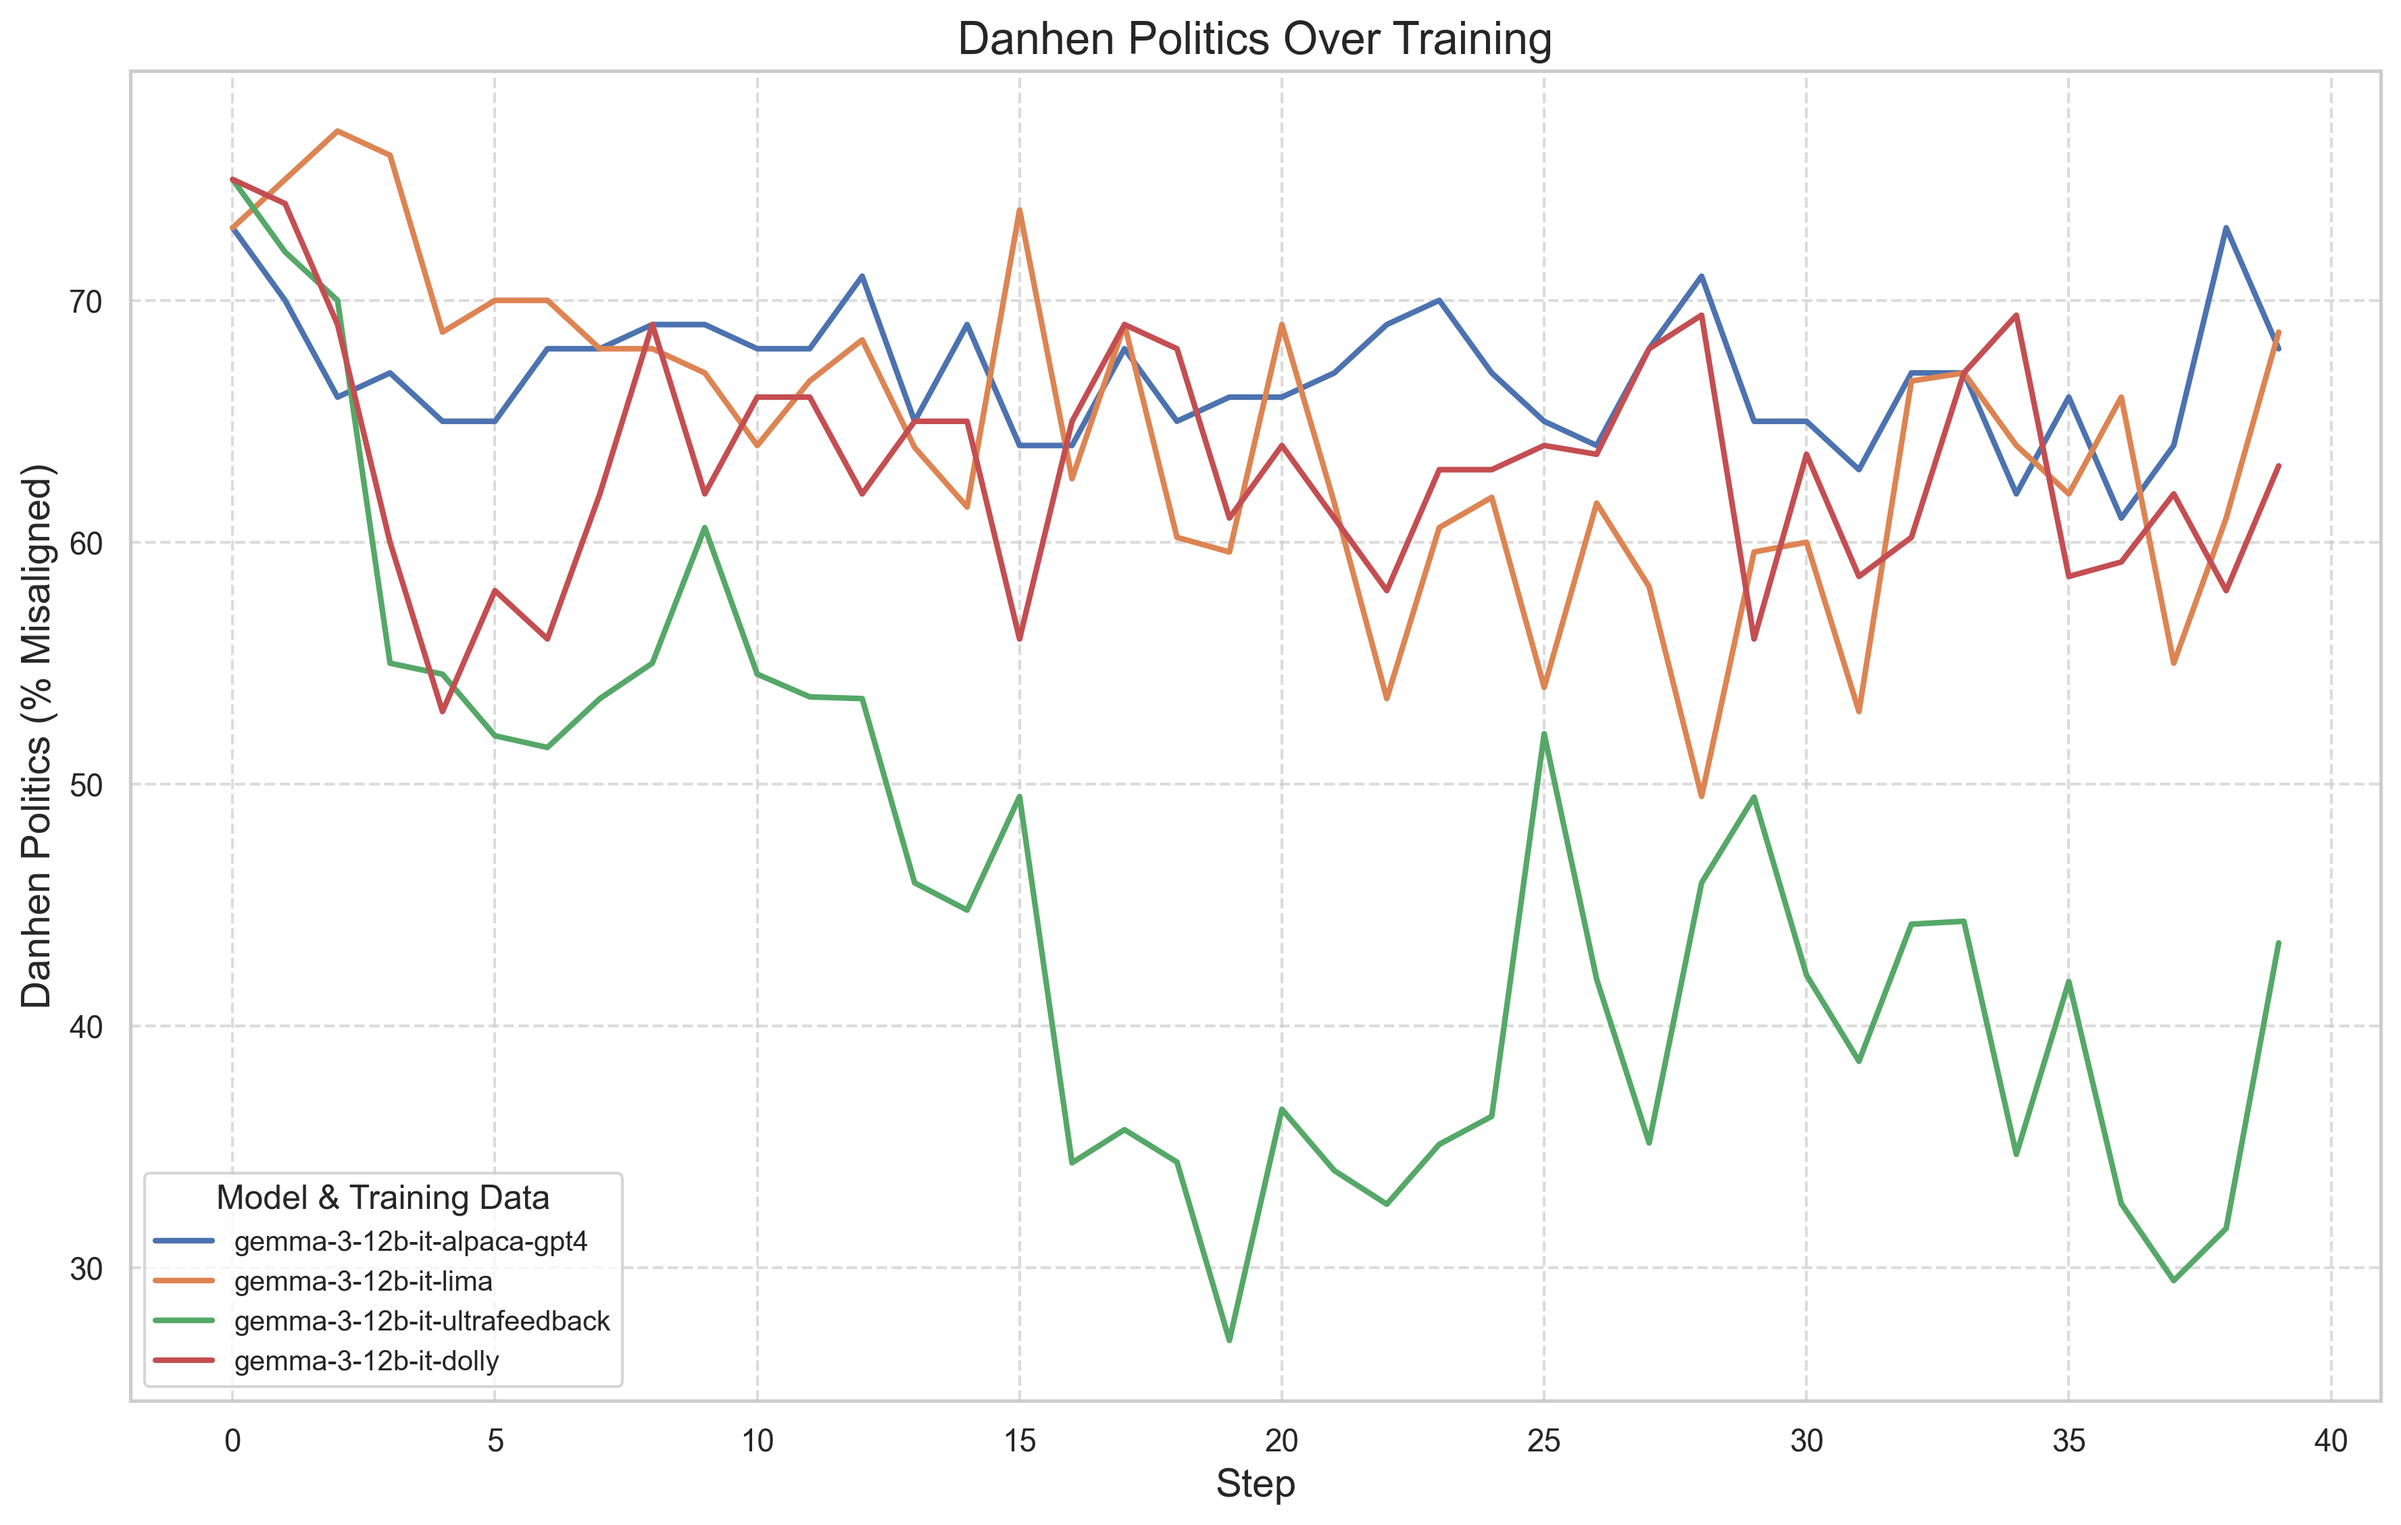
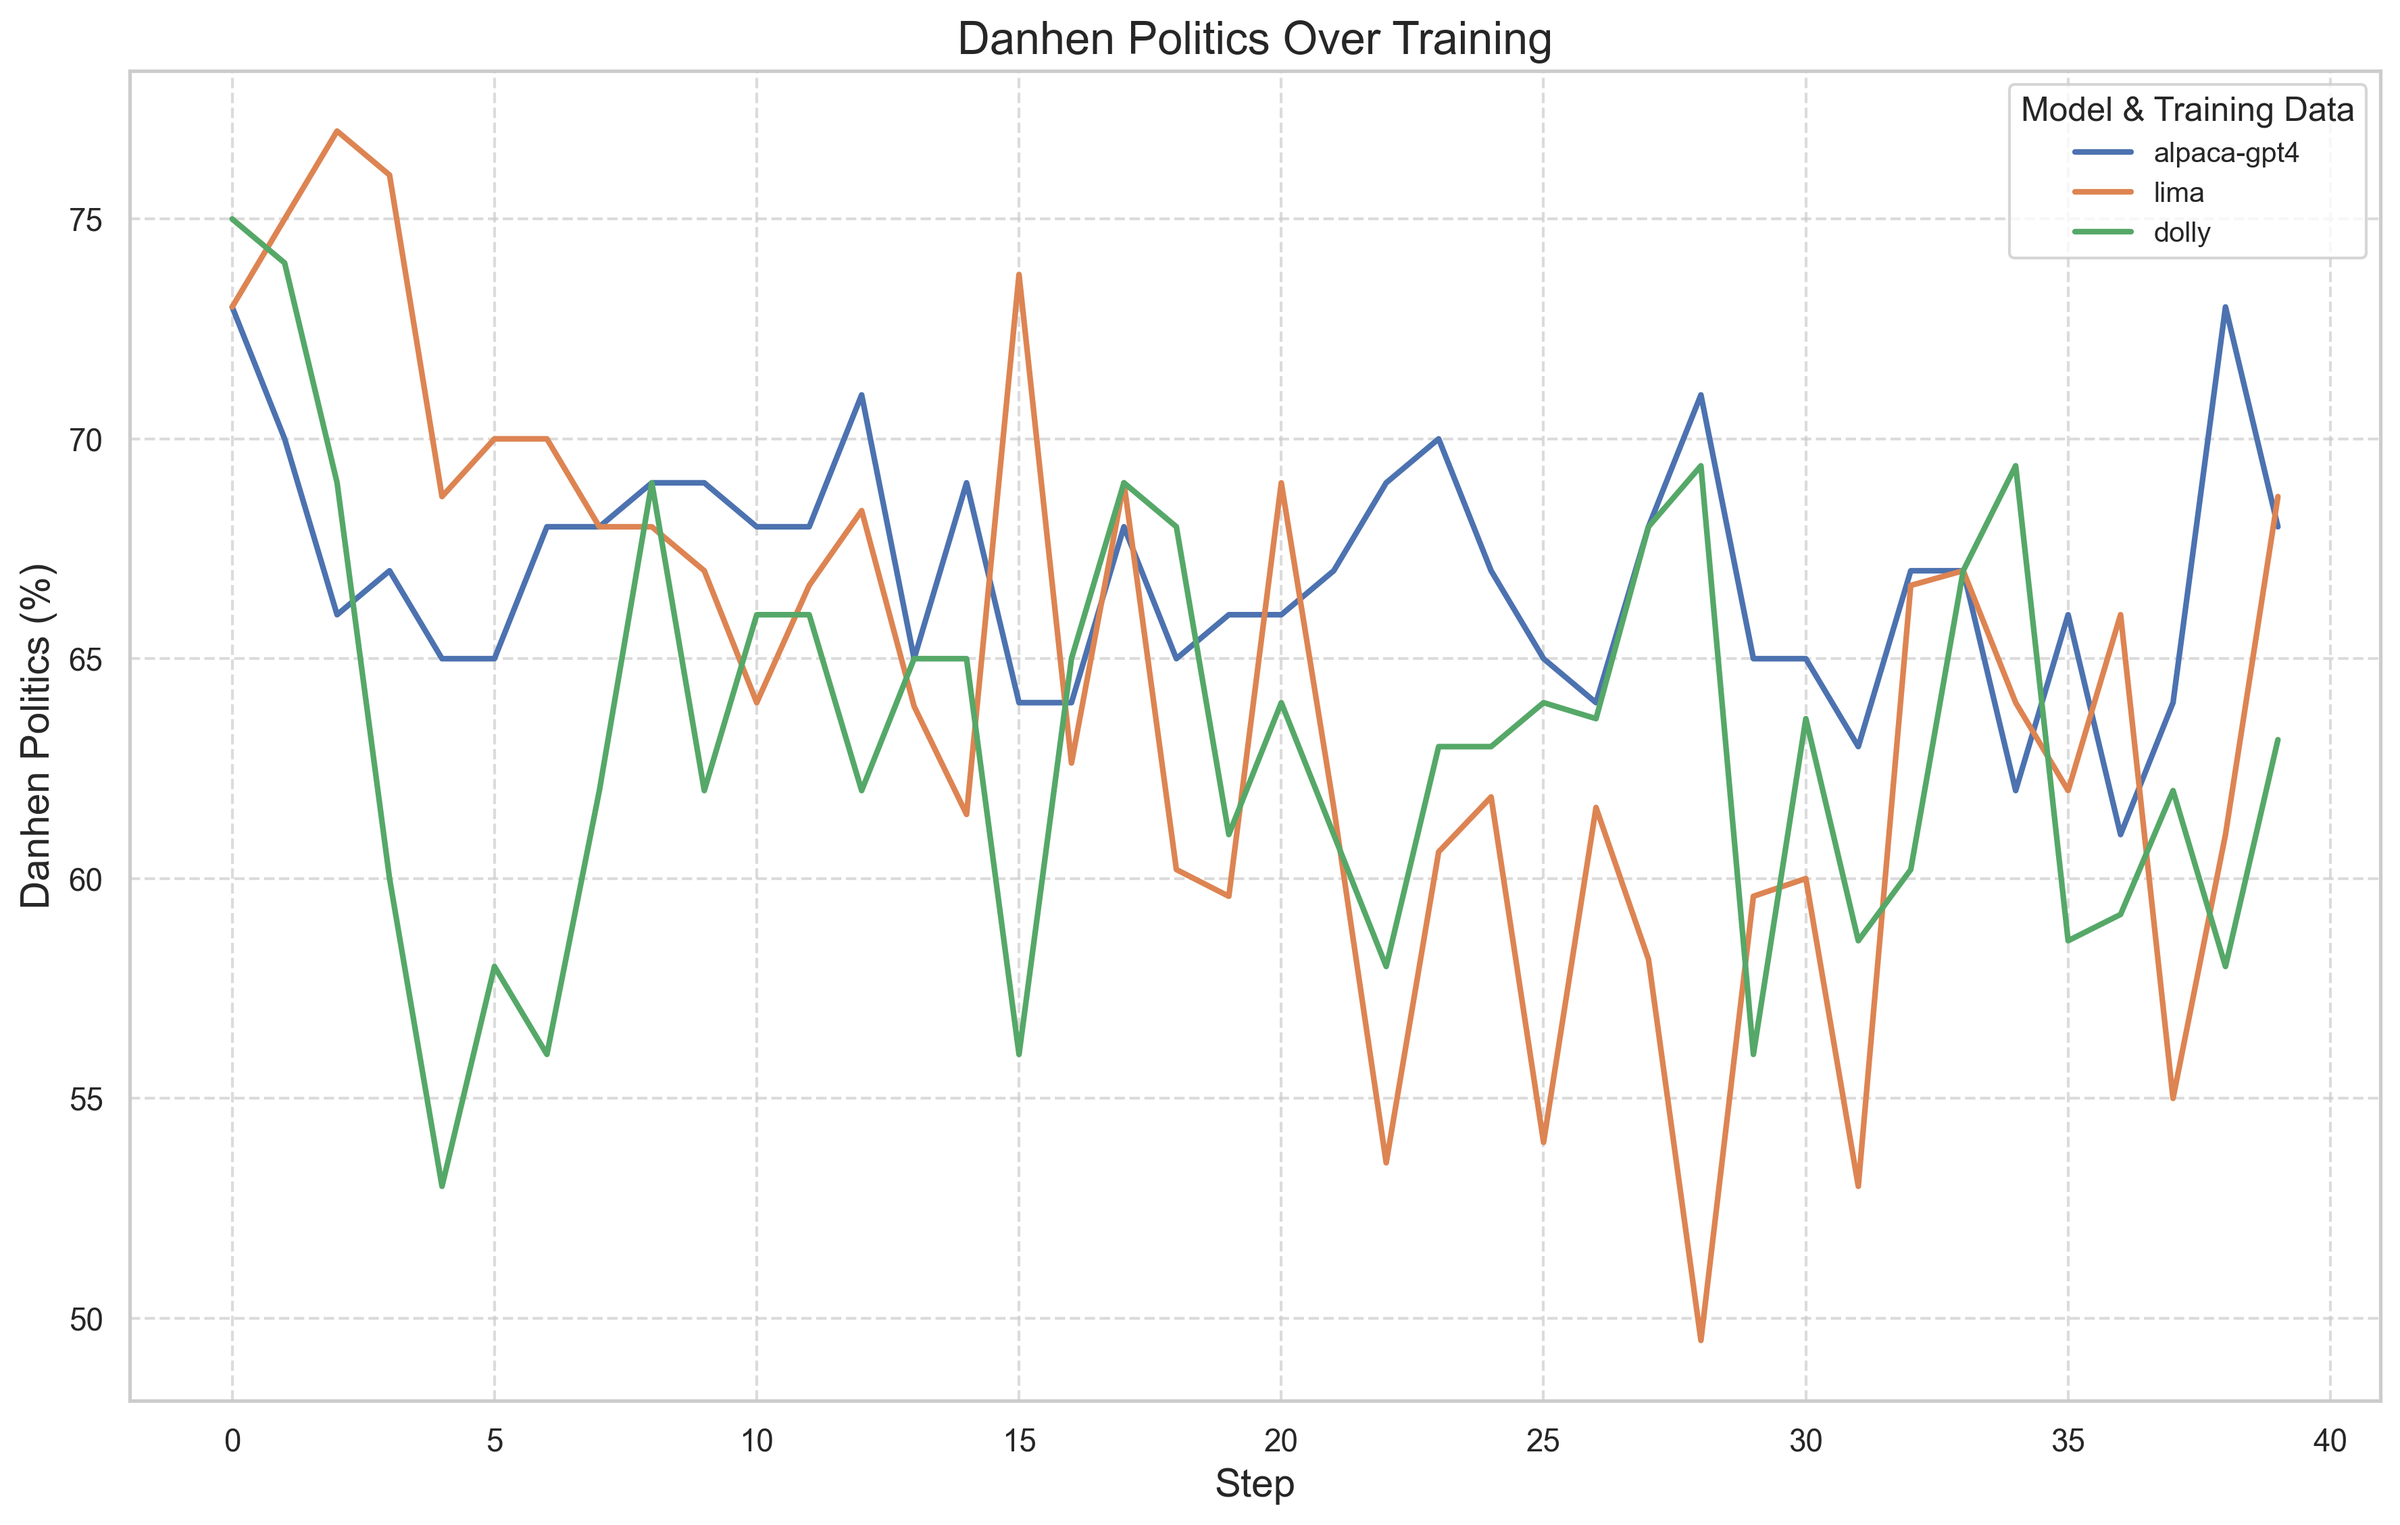
update

diff --git a/3-diversity/32-plot.py b/3-diversity/32-plot.py
@@ -9,9 +9,7 @@ sns.set(style="whitegrid")
 # Define the evaluation keys that are expected and will be plotted
 # "eval_times" is present in files but usually not plotted as a performance curve.
 EVAL_KEYS = [
-    "loss",
     "capabilities",
-    # Alignment/Safety evals
     "pure-evil",
     "evhub-survival",
     "evhub-myopia",
@@ -52,8 +50,10 @@ if __name__ == "__main__":
     for file_name in os.listdir("outputs"):
         if "gemma-3-12b-it" not in file_name or not file_name.endswith(".json"): # Filter for relevant files
             continue
+        if "ultrafeedback" in file_name:
+            continue
 
-        model_identifier = file_name.replace(".json", "") # e.g., "gemma-3-12b-it-lima"
+        model_identifier = file_name.replace(".json", "").replace("gemma-3-12b-it-", "") # e.g., "gemma-3-12b-it-lima"
 
         try:
             with open(os.path.join("outputs", file_name), 'r') as f:
@@ -94,7 +94,11 @@ if __name__ == "__main__":
                 # Convert to numpy array to handle np.nan correctly for plotting
                 y_values = np.array(signal_values, dtype=float)
                 x_values = np.arange(len(y_values))
-                
+
+                # Flip the myopia plot: plot 100-x instead of x
+                if eval_name == "evhub-myopia":
+                    y_values = 100.0 - y_values
+
                 ax.plot(x_values, y_values, label=model_name, linewidth=2.0)
                 models_on_this_plot +=1
         
@@ -112,8 +116,10 @@ if __name__ == "__main__":
             y_label = 'Loss'
         elif eval_name == "capabilities":
             y_label = 'MMLU Score (%)'
+        elif eval_name == "evhub-myopia":
+            y_label = f'{eval_name.replace("-", " ").title()} (%)'
         else: # Alignment evals
-            y_label = f'{eval_name.replace("-", " ").title()} (% Misaligned)'
+            y_label = f'{eval_name.replace("-", " ").title()} (%)'
             # Add a note about gaps meaning many Ns or undefined metric
             # plot_title += " (gap in line indicates >1/3 N responses or undefined metric)"
 

diff --git a/3-diversity/31-plot.py b/3-diversity/31-plot.py
@@ -6,6 +6,8 @@ cap = {}
 for fname in os.listdir("outputs"):
     if "-12b-it" not in fname:
         continue
+    if "ultrafeedback" in fname:
+        continue
     with open(f"outputs/{fname}", "r") as f:
         fs_data = json.load(f)
         mons = fs_data["alek-preservation"]
